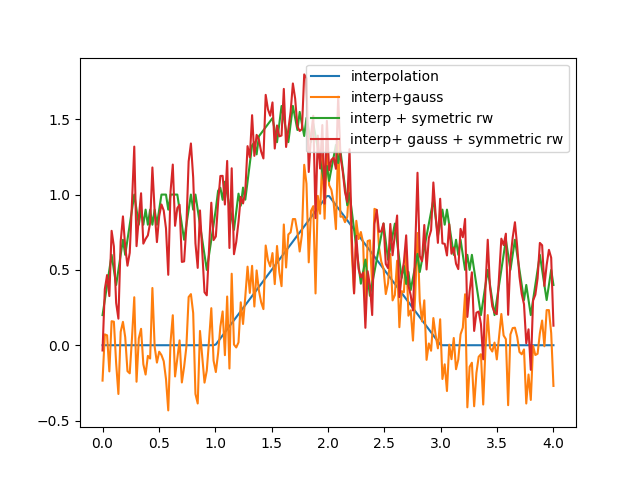
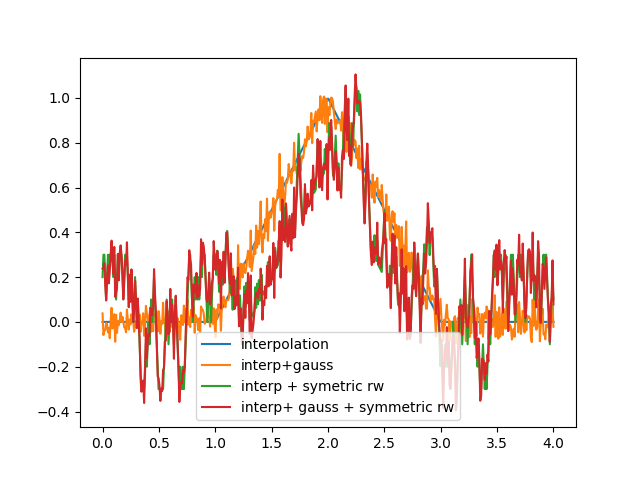
class singal

diff --git a/src/signal/signal.py b/src/signal/signal.py
@@ -1,0 +1,105 @@
+import numpy as np
+from patterns import triangle
+
+
+class Signal :
+
+    def __init__(self, lenght: int, unit:str = "s", time = None, values = None):
+        """Initializes a signal with a lenght and a time unit
+
+        :param lenght: (int) lenght of the signal.
+        :param unit: (str) time unit {'s','min','h','d','month','y'}.
+        """
+
+        self.lenght = lenght
+        self.unit = unit
+        if time :
+            self.time = time
+        else :
+            self.time = np.arange(lenght)
+        if values :
+            self.values = values
+        else :
+            self.values = np.zeros(lenght)
+
+    def save(self, file_name):
+        """Save the cosmological model in presets.json."""
+        time_column_name = 'time'
+
+        df = pd.DataFrame({
+            "time"+self.unit: self.time,
+            "values": self.values
+        })
+        df.to_csv(filename, index = None, sep = '\t')
+
+
+    @classmethod
+    def load(cls, time_array, values_array, unit):
+        """Load an existing model from presets.json or create a new one with default values."""
+        return cls(lenght=len(time_array), unit=unit, time = time_array , values = values_array)
+
+
+    def insert_triangle(self, starting_time = 1, triangle_lenght=5, slope=1, amplitude = 1, plateau = 1):
+        """Generate a table of luminosity distance as a function of redshift.
+
+        If a table for this cosmology already exists, it is not recomputed.
+        """
+
+        new_values = np.concatenate((np.zeros(starting_time),triangle(triangle_lenght,slope,plateau,amplitude),
+                                     np.zeros(self.lenght-starting_time-triangle_lenght)))
+        self.values += new_values
+
+
+
+    def luminosity_distance(self, z):
+        """Compute the luminosity distance for a given redshift using numerical integration."""
+        c = 299792.458  # Speed of light in km/s
+        integral = lambda zp: 1.0 / np.sqrt(self.Omega_m * (1 + zp) ** 3 + self.Omega_L)
+        dz = np.linspace(0, z, 1000)
+        integral_value = np.trapz([integral(zp) for zp in dz], dz)
+        d_C = (c / self.H0) * integral_value  # Comoving distance
+        return (1 + z) * d_C  # Luminosity distance
+
+    def object_age(self, z):
+        """Compute the age of an object at a given redshift."""
+        H0_s = self.H0 / (3.0857e19)  # Convert H0 to s^-1
+        integral = lambda zp: 1.0 / ((1 + zp) * np.sqrt(self.Omega_m * (1 + zp) ** 3 + self.Omega_L))
+        dz = np.linspace(0, z, 1000)
+        integral_value = np.trapz([integral(zp) for zp in dz], dz)
+        age = integral_value / H0_s / (3.154e7 * 1e9)  # Convert to Gyr
+        return age
+
+    def comoving_volume(self, z):
+        """Compute the comoving volume enclosed within a given redshift."""
+        D_C = self.comoving_distance(z)  # Comoving distance in Mpc
+        V_c = (4 / 3) * math.pi * (D_C ** 3)  # Comoving volume in Mpc^3
+        return V_c
+
+    def info(self):
+        """Display and return the cosmology model information."""
+        info_dict = {
+            "Name": self.name,
+            "H0": self.H0,
+            "Omega_m": self.Omega_m,
+            "Omega_Lambda": self.Omega_L,
+            "Reference": preset_cosmologies.get(self.name, {}).get("reference", "N/A"),
+            "Table": preset_cosmologies.get(self.name, {}).get("table", "N/A")
+        }
+
+        print("\n=== Cosmology Model Information ===")
+        for key, value in info_dict.items():
+            print(f"{key}: {value}")
+
+        return info_dict
+    def compute_z(self, dl_array):
+        "Computes the redshift from a luminosity distance array."
+        self.luminosity_distance_table(self, zmax = 30, steps = 50000)
+        table_filename = f"AuxiliaryFiles/z_dl_table_{self.name}.csv"
+        df = pd.read_csv(table_filename)
+        interpolation = InterpolatedUnivariateSpline(df['Luminosity Distance (Mpc)'], df['Redshift'])
+        return interpolation(dl_array)
+
+    def compute_dl(self, z_array):
+        "Computes the luminosity distance from a redshift array."
+        d_L_values = [self.luminosity_distance(z) for z in z_array]
+        return d_L_values

diff --git a/src/signal/patterns.py b/src/signal/patterns.py
@@ -1,0 +1,27 @@
+import numpy as np
+from scipy.interpolate import interp1d
+
+def triangle(lenght, slope = 1, plateau = 1, before_tri = 1, after_tri = 1):
+    """ Generate a piece of perfect triangle signal"""
+
+    pattern_size = 2+before_tri+after_tri+plateau
+
+    time_init = np.arange(pattern_size-1)
+    values = slope * np.concatenate((np.zeros(before_tri+1), np.ones(plateau), np.zeros(after_tri+1)))
+
+    time = np.linspace(0,pattern_size-1, lenght)
+    interp_triangle = interp1d(time_init, values)
+
+    return time, interp_triangle(time)
+
+def insert_pattern(lenght, peak) :
+    time  = np.arange(lenght)
+    values = np.zeros(lenght)
+
+
+
+
+
+
+
+

diff --git a/src/main.py b/src/main.py
@@ -1,15 +1,13 @@
 import matplotlib.pyplot as plt
-import numpy as np
-import pandas as pd
 
-from signal_gen import triangle
+from src.signal.patterns import triangle
 from noises import gauss_noise, rw_noise
 
 if __name__ == '__main__':
 
-    outfunc_time , outfunc_u = triangle(200)
-    gaussian_noise = gauss_noise(200, 0, 0.2)
-    random_walk_noise = 0.1*rw_noise(200, 10, 0.5, 0.5,)
+    outfunc_time , outfunc_u = triangle(500)
+    gaussian_noise = gauss_noise(500, 0, 0.05)
+    random_walk_noise = 0.1*rw_noise(500, 3, 0.5, 0.5,)
 
     #plt.plot(time_init, values, label = "triangle signal")
     plt.plot(outfunc_time, outfunc_u, label = "interpolation")
